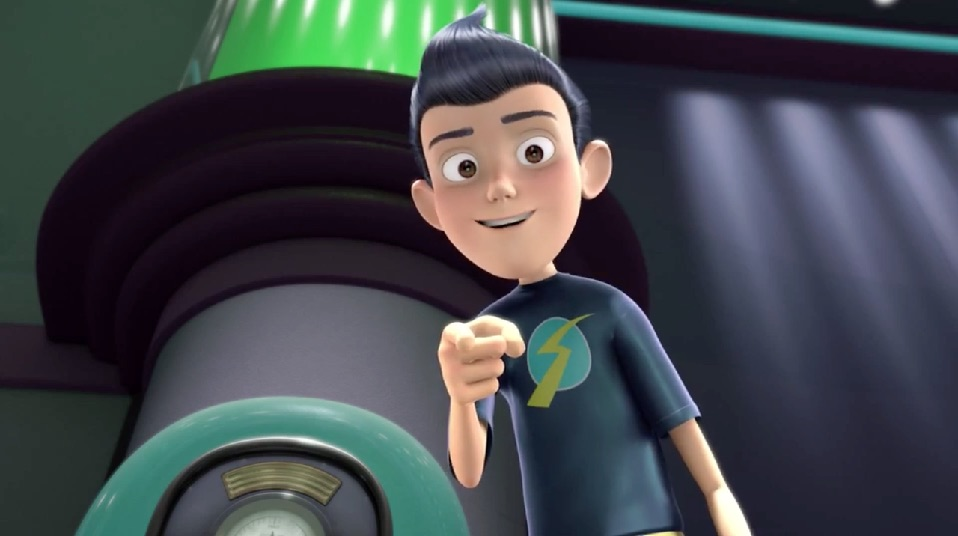
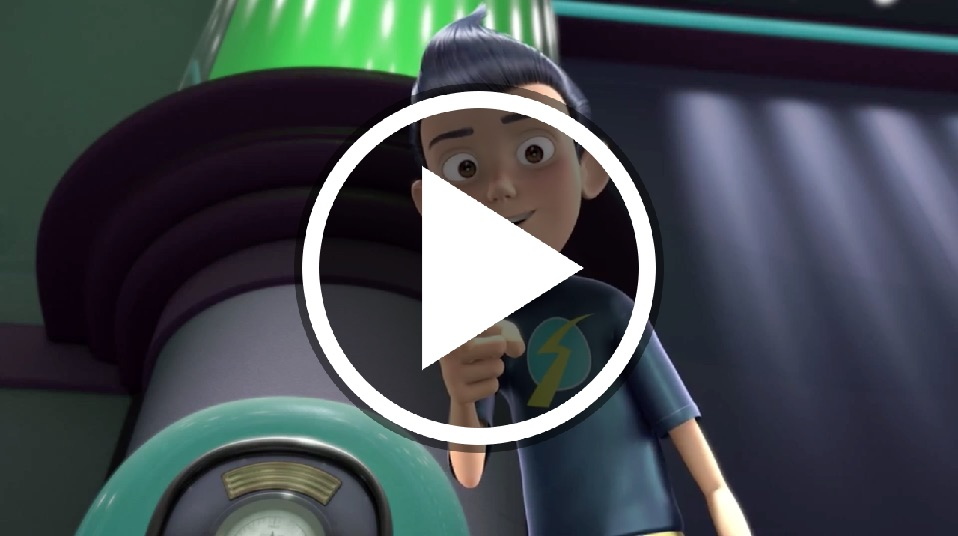
update placeholder since audio is now disabled by default on unpopular sites
like this one

Changed region(s): [[0.3027, 0.1493, 0.6962, 0.8657]]

diff --git a/index.html b/index.html
@@ -31,6 +31,6 @@ video.addEventListener('click',function(){
 var ua = navigator.userAgent.toLowerCase();
 var isAndroid = ua.indexOf("android") > -1 || ua.indexOf("wii") > -1; //&& ua.indexOf("mobile");
 if(isAndroid) {
-	document.getElementById("video").setAttribute("poster", "android_placeholder.jpg");
+	document.getElementById("video").setAttribute("poster", "placeholder.jpg");
 }
 </script>
